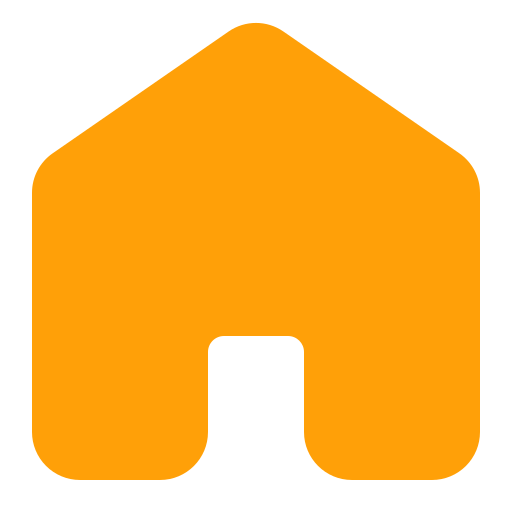
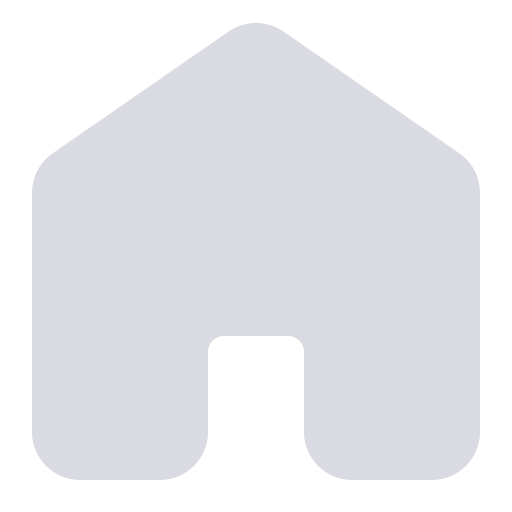
feat: Cambio en colores e iconos del menú principal: 1.-Se Agregaron nuevas versiones de los iconos, esta vez de color blanco 2.-Se cambiaron los colores de los botones con iconos del menú principal 3.-Se cambió el nombre del archivo css del menú principal de menu.css a dashboard.css 4.-Se cambió el

diff --git a/dashboard.html b/dashboard.html
@@ -4,7 +4,7 @@
     <title>Wallet - Menú Principal</title>
     <link rel="stylesheet" href="https://maxcdn.bootstrapcdn.com/bootstrap/4.0.0/css/bootstrap.min.css">
     <link rel="stylesheet" href="./styles/style.css">
-    <link rel="stylesheet" href="./styles/menu.css">
+    <link rel="stylesheet" href="./styles/dashboard.css">
     <link rel="stylesheet" href="./styles/navbar.css">
     
     <script src="https://code.jquery.com/jquery-3.6.0.min.js"></script>
@@ -17,7 +17,7 @@
     <script src="./js/navbar.js" defer></script>
 </head>
 <body>
-    <div class="semi-circle"></div>
+    <div class="background-screen"></div>
 
     <div class="main-container">
         <nav class="navbar navbar-expand-lg navbar-light bg-light">
@@ -49,17 +49,17 @@
         <div class="container">
             <h2>Menú Principal</h2>
             <div class="form-group">
-                <label for="balance">Dinero en cuenta:</label>
+                <label for="balance">Saldo disponible en la cuenta:</label>
                 <h3 id="h-monto"></h3>
             </div>
             <div class="form-group container-buttons">
-                <button id="btnDeposit" class="btn btn-primary">
+                <button id="btnDeposit" class="btn btn-primary btn-icon">
                     <img src="assets/deposit.png" alt="Depositar"/>
                 </button>
-                <button id="btnSendMoney" class="btn btn-primary">
+                <button id="btnSendMoney" class="btn btn-primary btn-icon">
                     <img src="assets/sendmoney.png" alt="Enviar Dinero"/>
                 </button>
-                <button id="btnTransactions" class="btn btn-primary">
+                <button id="btnTransactions" class="btn btn-primary btn-icon">
                     <img src="assets/transactions.png" alt="Historial"/>
                 </button>
             </div>

diff --git a/styles/dashboard.css b/styles/dashboard.css
@@ -35,21 +35,6 @@ h2 {
     color: #959595;;
 }
 
-.btn {
-    margin-bottom: 15px;
-    padding: 12px;
-    font-size: 1.1rem;
-    background-color: #dbdbdbc2;
-    color: black;
-    border: none;
-    height: 5em;
-    width: 11em;
-}
-
-img{
-    width: 3.5em;
-}
-
 .container-buttons{
     display: flex;
     flex-wrap: wrap;
@@ -57,7 +42,26 @@ img{
     justify-content: center;
 }
 
-.container-buttons button:hover{
-    background: #ffc1074a;
+.btn-icon
+ {
+    margin-bottom: 15px;
+    padding: 12px;
+    font-size: 1.1rem;
+    background-color: #09206f;
+    color: black;
+    border: none;
+    height: 5em;
+    width: 11em;
 }
+
+.btn-icon:hover{
+    background: #718cbef3;
+}
+
+img{
+    width: 3.5em;
+}
+
+
+
 

diff --git a/index.html b/index.html
@@ -9,7 +9,7 @@
     <script src="https://cdn.jsdelivr.net/npm/popper.js@1.16.1/dist/umd/popper.min.js"></script>
     <script src="https://cdn.jsdelivr.net/npm/bootstrap@4.6.2/dist/js/bootstrap.min.js"></script>
     <script src="./js/utils.js" defer></script>  
-    <script src="./js/login.js" defer></script> 
+    <script src="./js/index.js" defer></script> 
     <script src="./js/modal.js" defer></script> 
 </head>
 <body>

diff --git a/styles/style.css b/styles/style.css
@@ -28,12 +28,12 @@ body {
     color: red;
 }
 
-.semi-circle {
+.background-screen {
   position: absolute;
   top: 0;
   left: 0;
   width: 100vw;   /* ocupa todo el ancho */
   height: 33vh;   /* un tercio de la altura */
-  background-color: orange;
+  background-color: #09206f;
   z-index: -1;
 }

diff --git a/deposit.html b/deposit.html
@@ -19,7 +19,7 @@
 </head>
 
 <body>
-  <div class="semi-circle"></div>
+  <div class="background-screen"></div>
   <div class="main-container">
     <nav class="navbar navbar-expand-lg navbar-light bg-light">
       <a class="navbar-brand" href="#"><span class="text-primary">A</span>lke Wallet</a>

diff --git a/sendmoney.html b/sendmoney.html
@@ -19,7 +19,7 @@
 </head>
 
 <body>
-  <div class="semi-circle"></div>
+  <div class="background-screen"></div>
   <div class="main-container">
     <nav class="navbar navbar-expand-lg navbar-light bg-light">
       <a class="navbar-brand" href="#"><span class="text-primary">A</span>lke Wallet</a>

diff --git a/transactions.html b/transactions.html
@@ -19,7 +19,7 @@
 </head>
 
 <body>
-  <div class="semi-circle"></div>
+  <div class="background-screen"></div>
   <div class="main-container">
     <nav class="navbar navbar-expand-lg navbar-light bg-light">
       <a class="navbar-brand" href="#"><span class="text-primary">A</span>lke Wallet</a>
